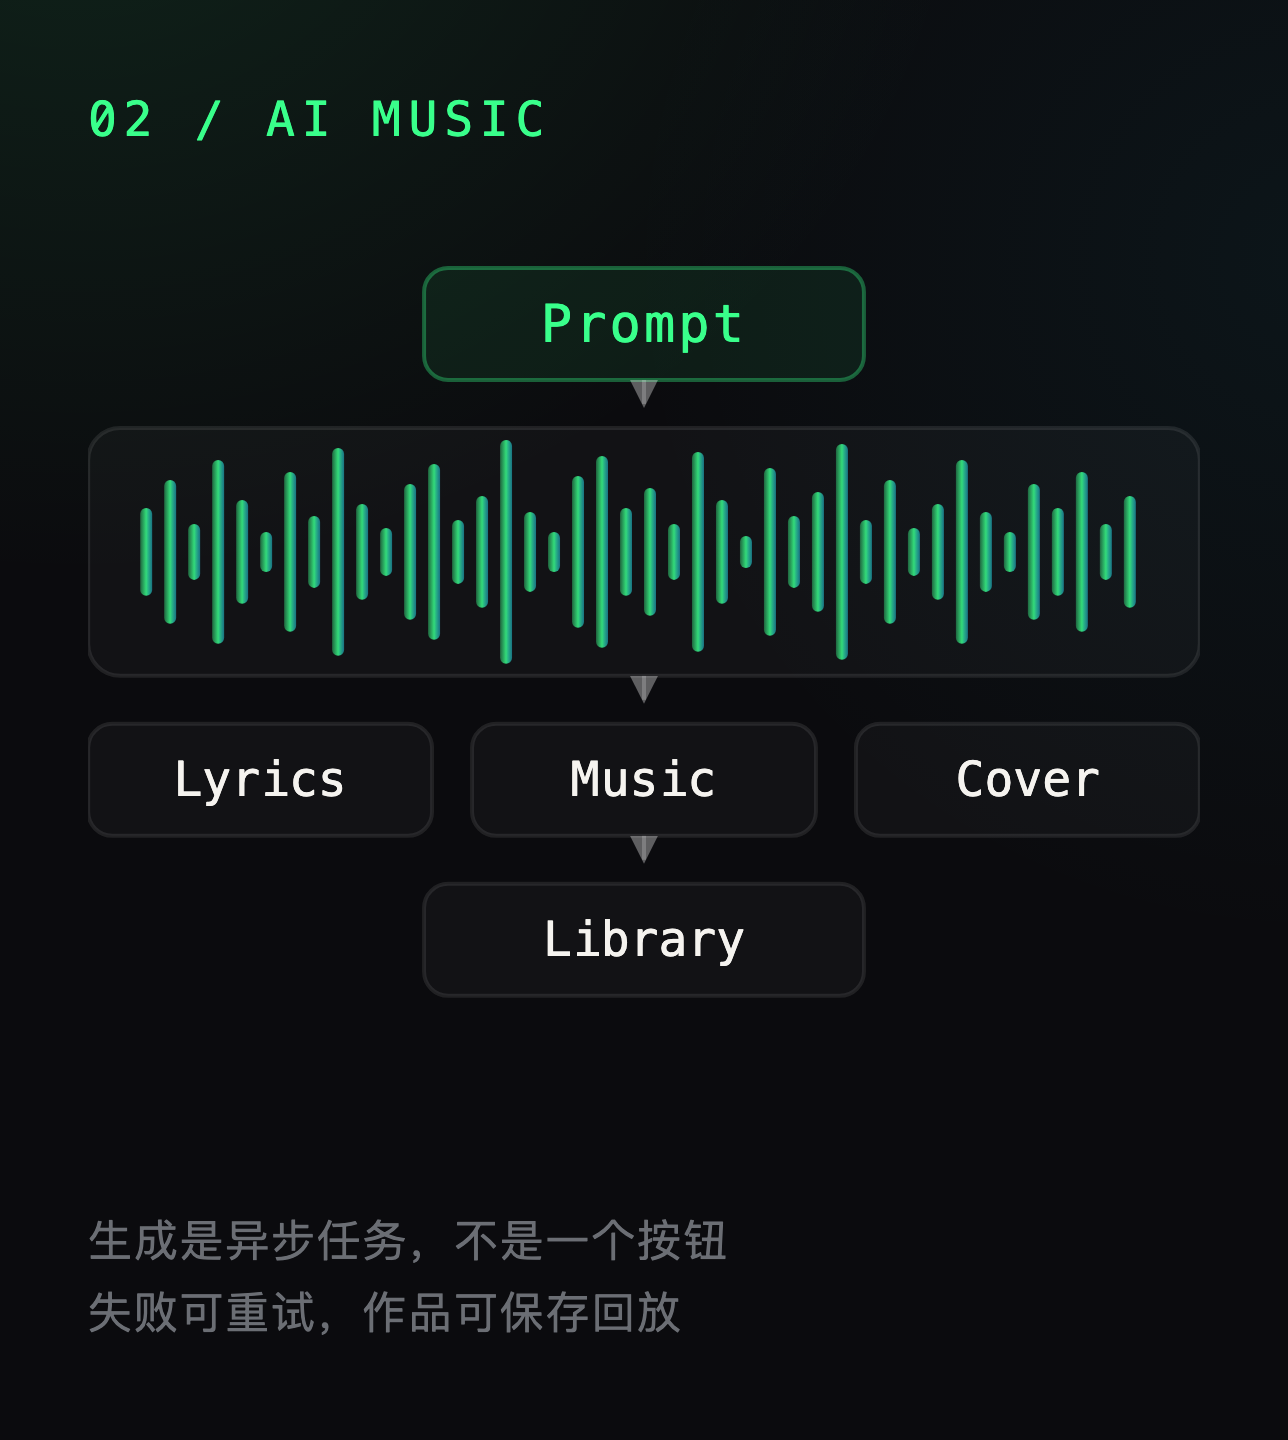
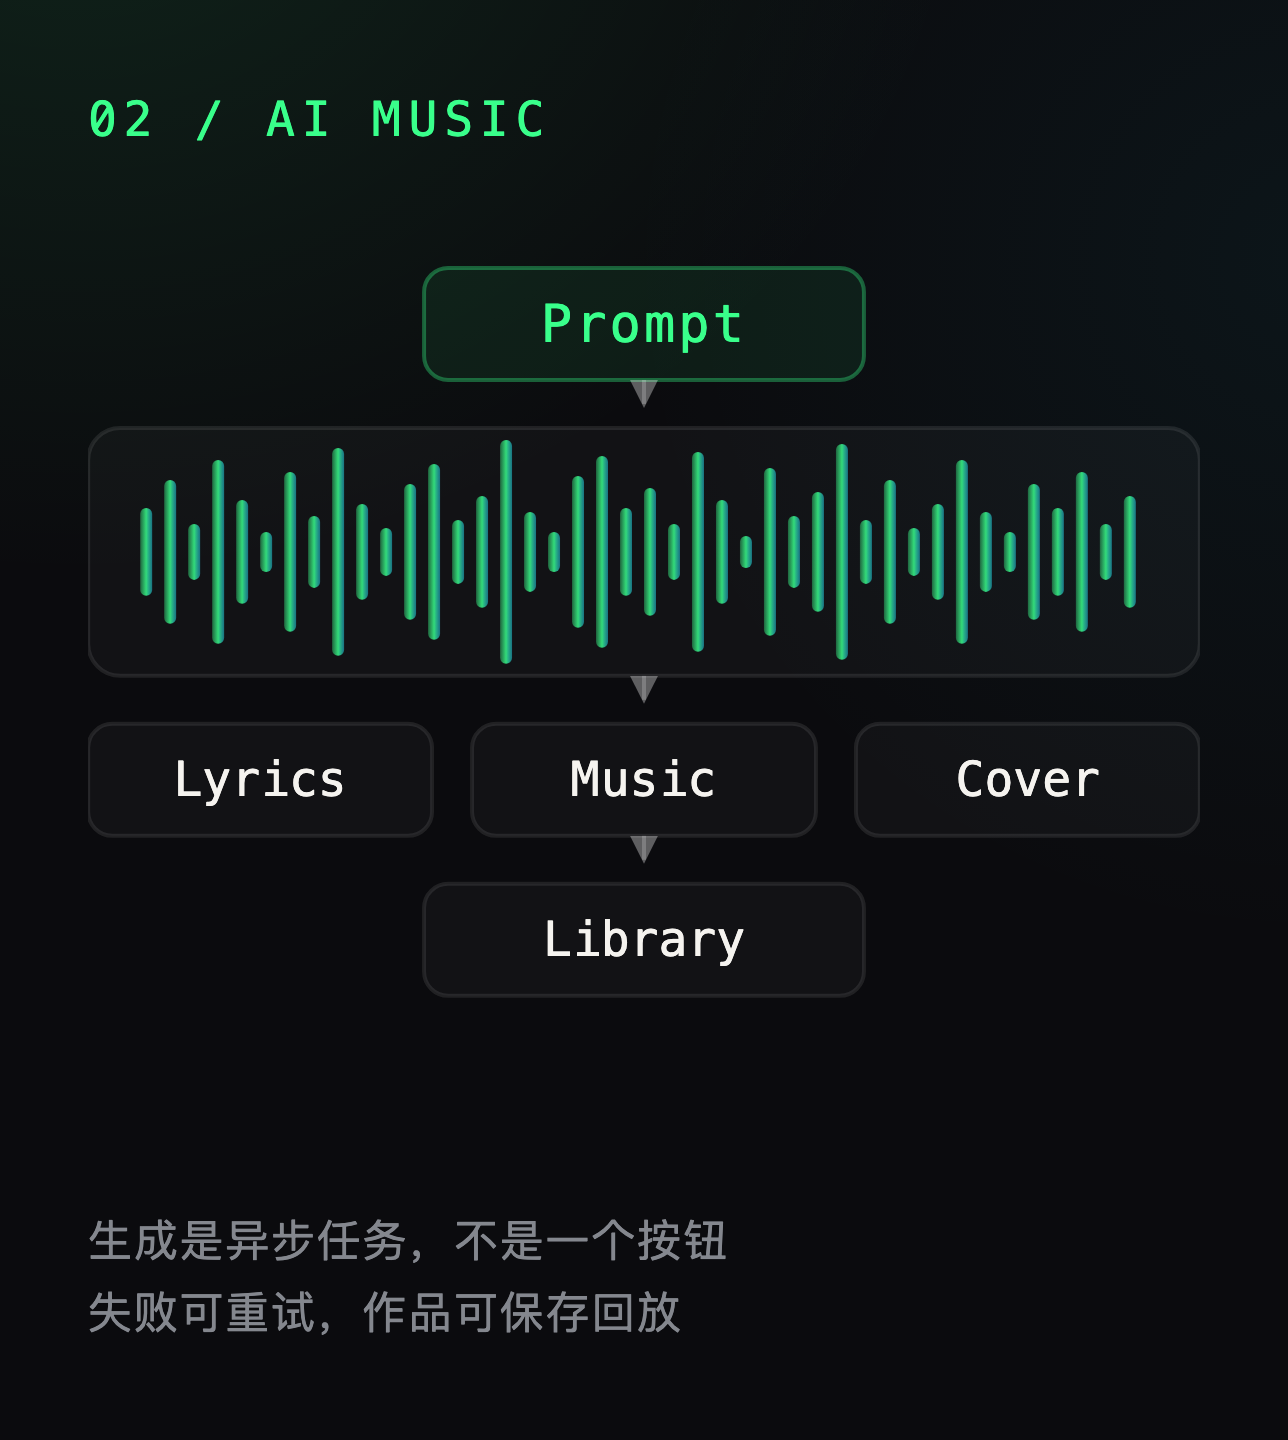
feat(p7): fix cover text contrast and ASCII mark role
审计跑在构建产物上（dist/），不是 dev server —— dev 会往 tab 序里插一个
astro-dev-toolbar，在 dev 上验键盘可达会得出错误结论。

两处修掉的：

- Cover 里的说明文字对比度只有 3.84:1（--faint: #6b6e74，11px 正文级，AA 要 4.5）。
  这些字画在位图里，DOM 对比度审计扫不到，只能手算。改 #84878e（5.46:1）重出四张图。
- ASCII 兔子只写了 aria-label 没写 role。<pre> 是 generic role，ARIA 规范下
  aria-label 不保证被暴露，读屏会逐个念 (\(\ (•ᴥ•) / づ 这些符号。补 role="img"。

实测：三个页面 Tab 可达数与 DOM 可聚焦数完全一致（22/22、4/4、3/3），
focus 无轮廓 0 项，无可访问名 0 项，对比度未达 AA 0 项。
reduced 与 no-preference 两种模式下都没有内容被留在 opacity 0。
/resume.pdf 以 application/pdf 正常返回。

Changed region(s): [[0.0621, 0.8438, 0.3106, 0.9375], [0.2795, 0.8438, 0.559, 0.9375]]

diff --git a/src/components/HackRabbitMark.tsx b/src/components/HackRabbitMark.tsx
@@ -1,8 +1,14 @@
 import './HackRabbitMark.css'
 
 export function HackRabbitMark({ compact = false }: { compact?: boolean }) {
+  // role="img" 才能让读屏软件把整块 ASCII 当一张图读出 aria-label；
+  // 只写 aria-label 的话 <pre> 是 generic role，读屏会逐个念里面的符号。
   return (
-    <pre className={compact ? 'hackrabbit-mark compact' : 'hackrabbit-mark'} aria-label="hackrabbit mark">
+    <pre
+      className={compact ? 'hackrabbit-mark compact' : 'hackrabbit-mark'}
+      role="img"
+      aria-label="hackrabbit 的 ASCII 兔子标记"
+    >
 {`(\\(\\
 (•ᴥ•)
 / づ`}

diff --git a/tools/covers/cover.css b/tools/covers/cover.css
@@ -5,7 +5,9 @@
   --bg: #0b0b0e;
   --ink: #f5f3ef;
   --dim: #a9abb0;
-  --faint: #6b6e74;
+  /* 4.5:1 是 WCAG AA 对正文级字号的下限；#6b6e74 只有 3.84，Cover 里的说明行
+     和图注是画进位图的，DOM 对比度审计查不到，只能在这里定死。 */
+  --faint: #84878e;
   --accent: #39ff8b;
   --cyan: #22d3ee;
   --amber: #e8b44a;
